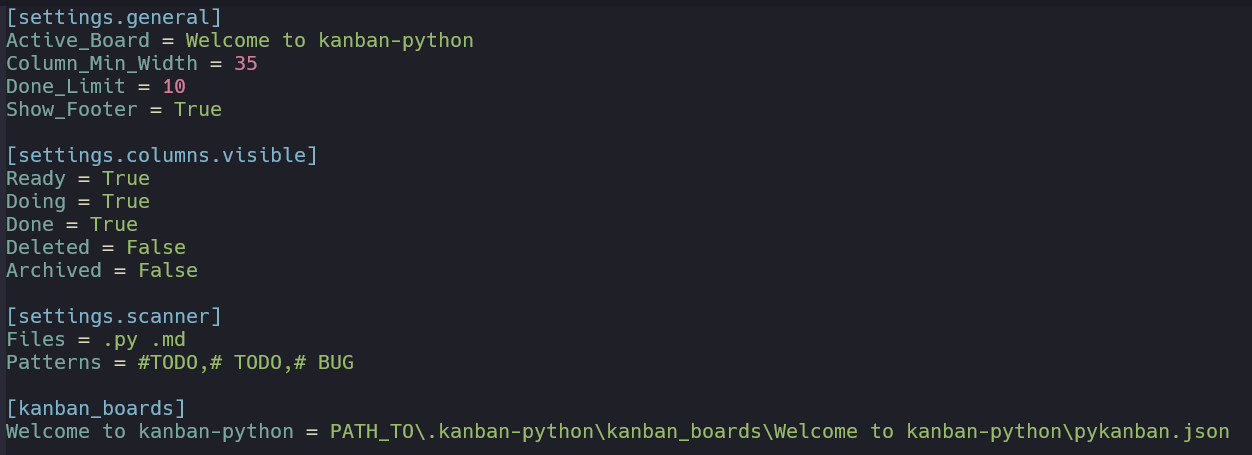
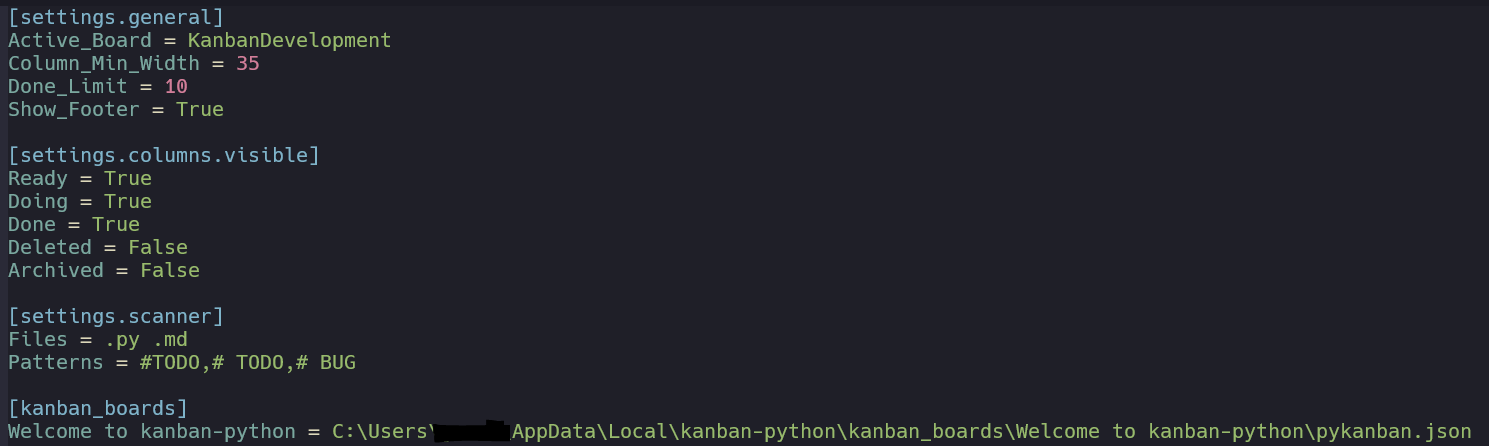
Update docs and Images for XDG switch and 0.3.0 release gh-6

diff --git a/README.md b/README.md
@@ -33,6 +33,10 @@ It was a great help for developing my first package and I can highly recommend i
 - *colorful and interactive*: kanban-python uses [rich] under the hood to process user input
 and display nice looking tables to the terminal.
 
+- *following the XDG convention*: kanban-python utilizes [platformdirs] `user_config_dir` to save the config file and `user_data_dir` for
+the board specific task files. After creating your first board, you can use `kanban configure` to show the current settings table.
+The config path in the table caption and the path for the task files can be found in the kanban_boards section.
+
 - *automated scanning of files for task creation*: kanban-python can scan files of defined types for specific patterns at start of line.
 Check [Automatic Task Creation](#automatic-task-creation) for more Infos.
 
@@ -107,13 +111,17 @@ The filepath were the task was found will be added as description of the task.
   ```
 ![settings](https://raw.githubusercontent.com/Zaloog/kanban-python/main/images/image_kanban_configure.PNG)
 
-To create a new custom Columns, you have to edit the `pykanban.ini` manually and add a new columnname + visibility status
-under the `settings.columns.visible` section. This will also be configurable within the application in the future.
+To create a new custom Columns, you have to edit the `pykanban.ini` manually and add a new column name + visibility status
+under the `settings.columns.visible` section. The same way you can also add more file endings or patterns for the `settings.scanner` section.
+Keep in mind the specific separators for that section.
+I am working on an option to customize those things in the future without the need to manual edit the file.
 
 
 ## Feedback and Issues
 Feel free to reach out and share your feedback, or open an Issue, if something doesnt work as expected.
 Also check the [Changelog](https://raw.githubusercontent.com/Zaloog/kanban-python/main/CHANGELOG.md) for new updates.
+:warning: With release v0.3.0 kanban-python switched to the [XDG] Basedir Spec. So some file migrations and config edits might be
+needed to continue working with your already created boards if you update from `v0.2.X` to `v0.3.X`
 
 <!-- pyscaffold-notes -->
 
@@ -122,6 +130,8 @@ Also check the [Changelog](https://raw.githubusercontent.com/Zaloog/kanban-pytho
 This project has been set up using PyScaffold 4.5. For details and usage
 information on PyScaffold see https://pyscaffold.org/.
 
+[XDG]: https://specifications.freedesktop.org/basedir-spec/basedir-spec-latest.html
+[platformdirs]: https://platformdirs.readthedocs.io/en/latest/
 [clikan]: https://github.com/kitplummer/clikan
 [pyscaffold]: https://pyscaffold.org/
 [rich]: https://github.com/Textualize/rich

diff --git a/CHANGELOG.md b/CHANGELOG.md
@@ -1,7 +1,13 @@
 # Changelog
 
 ## Version 0.3.0
-- Move to XDG Path convention
+- Move to XDG Path convention,
+utilize `platformdirs` to write the config file to `user_config_dir` and the task files
+to `user_data_dir`.
+- added constants.py file for constants like the above mentioned Paths
+- added more Tests
+- added `platformdirs` <4 dependency
+- Updated the docs
 
 ## Version 0.2.2
 - BUGFIX settings.scanner keys not capitalized
